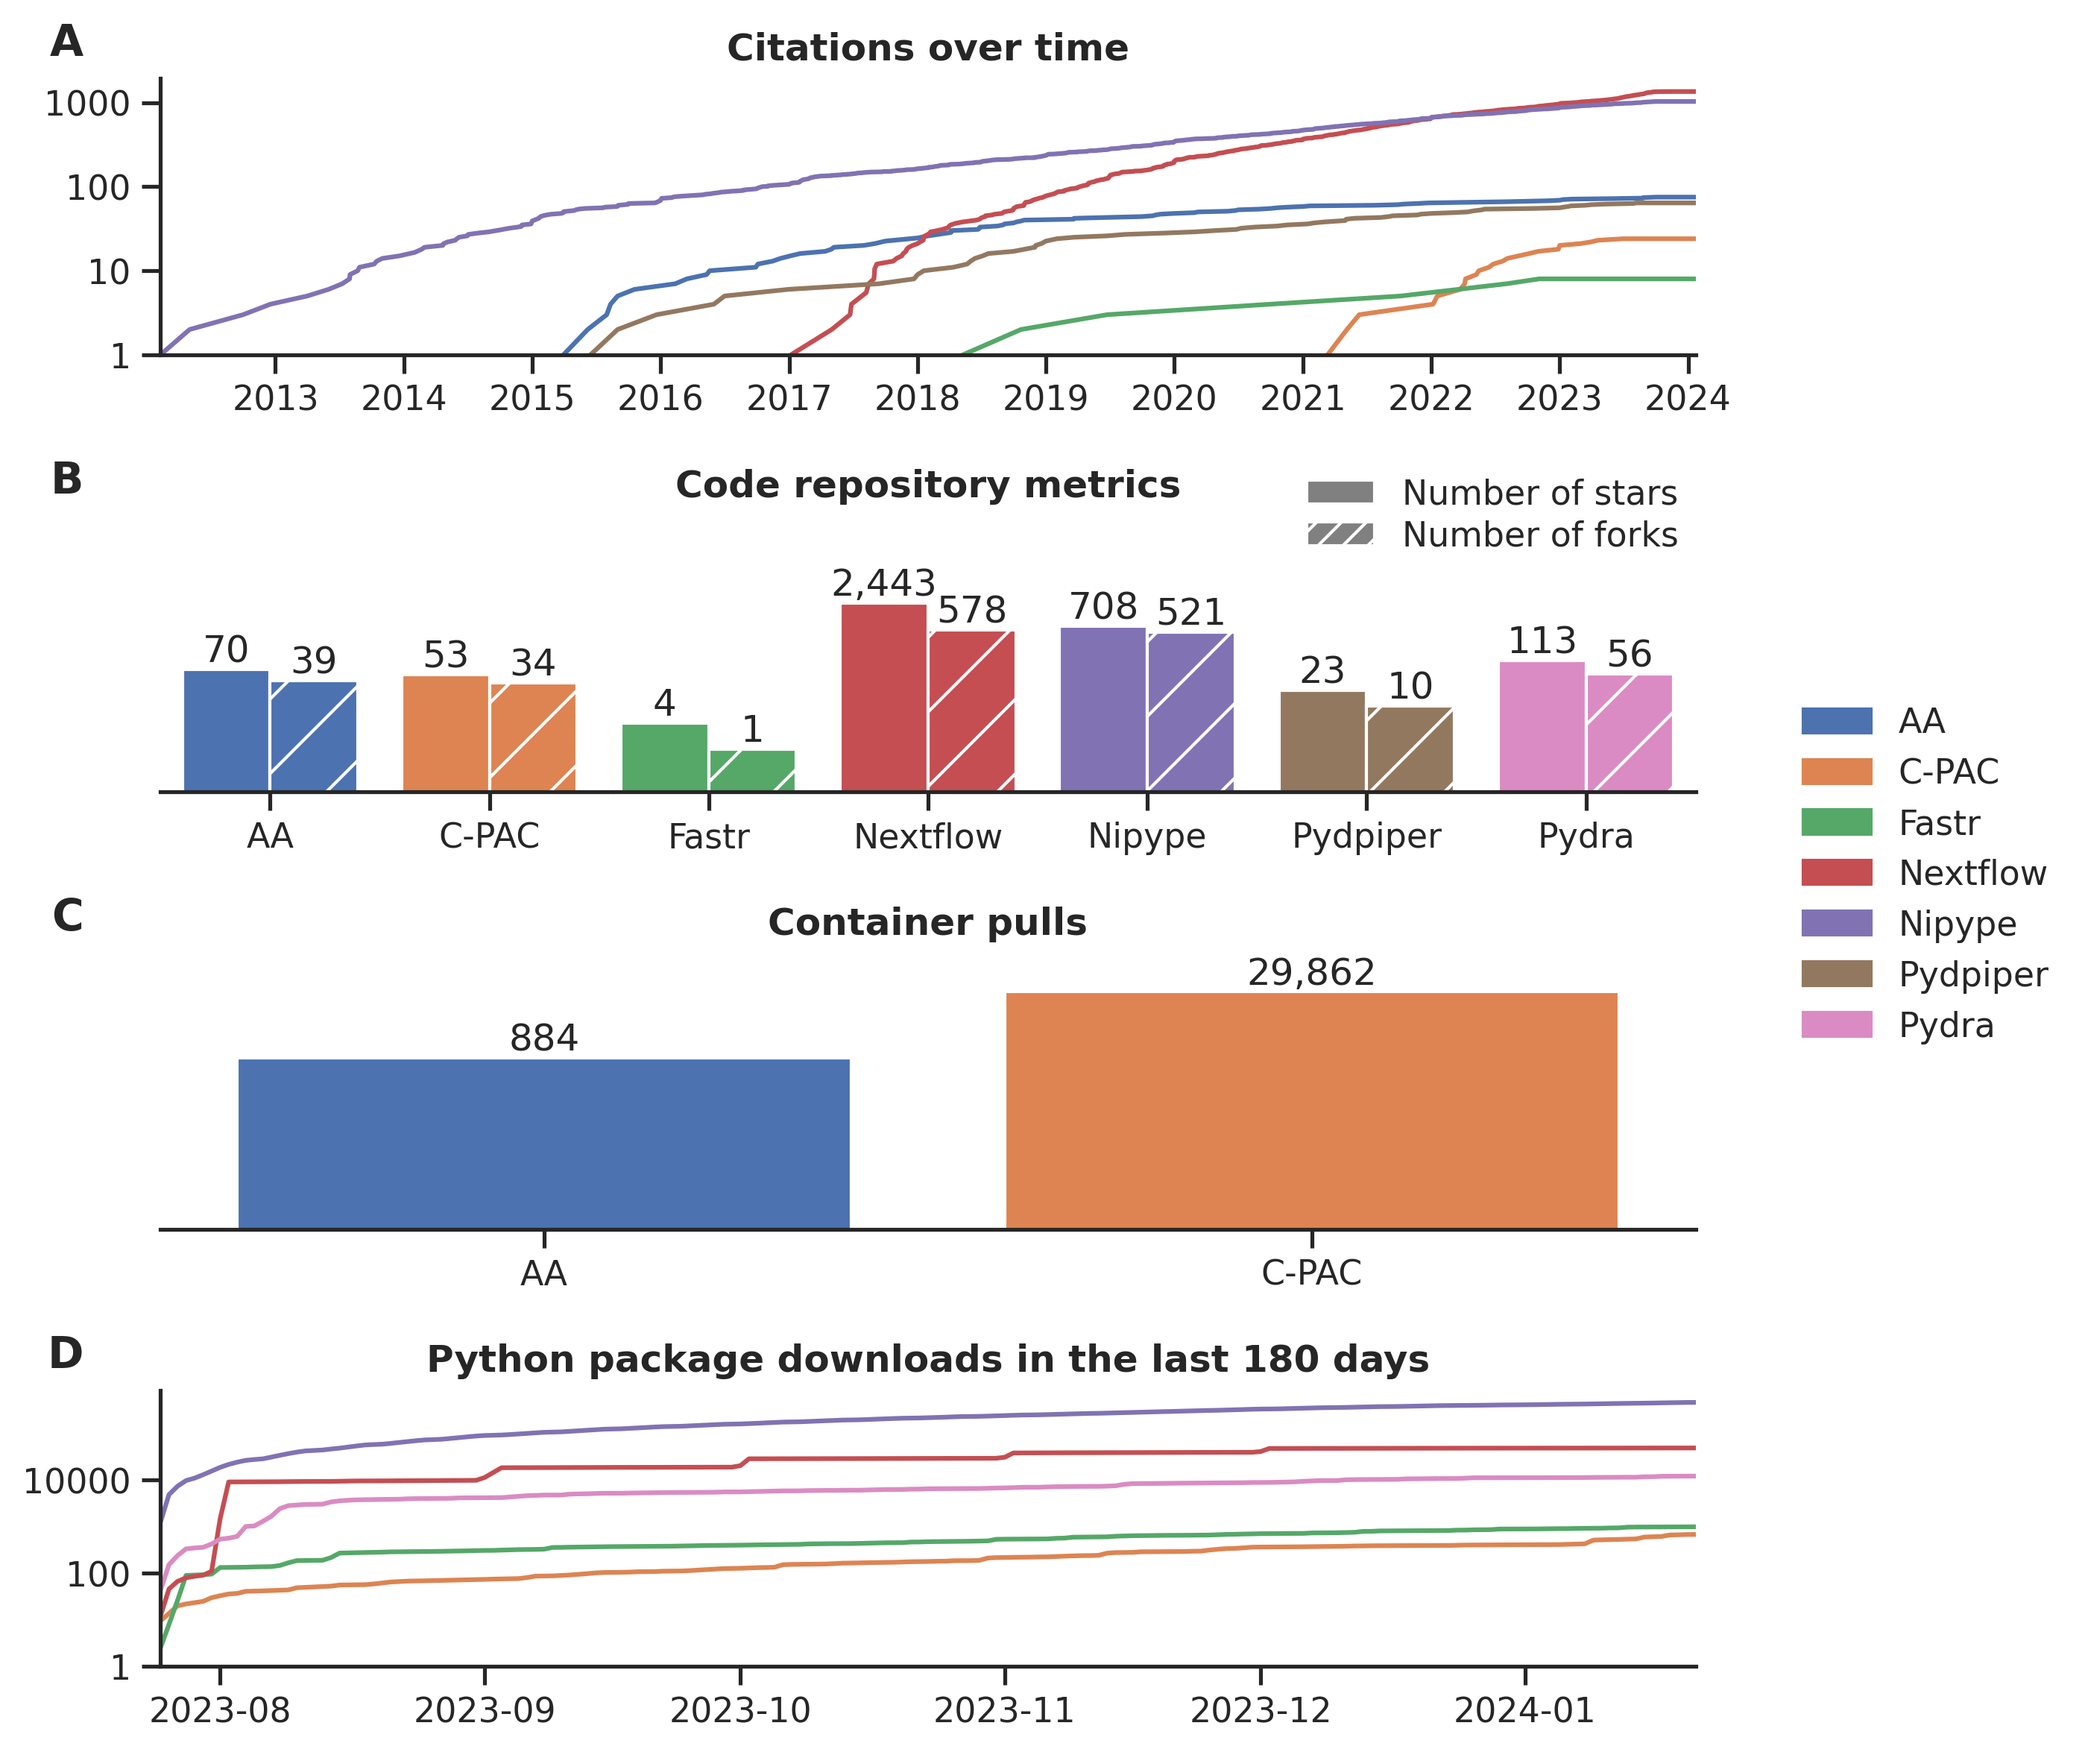
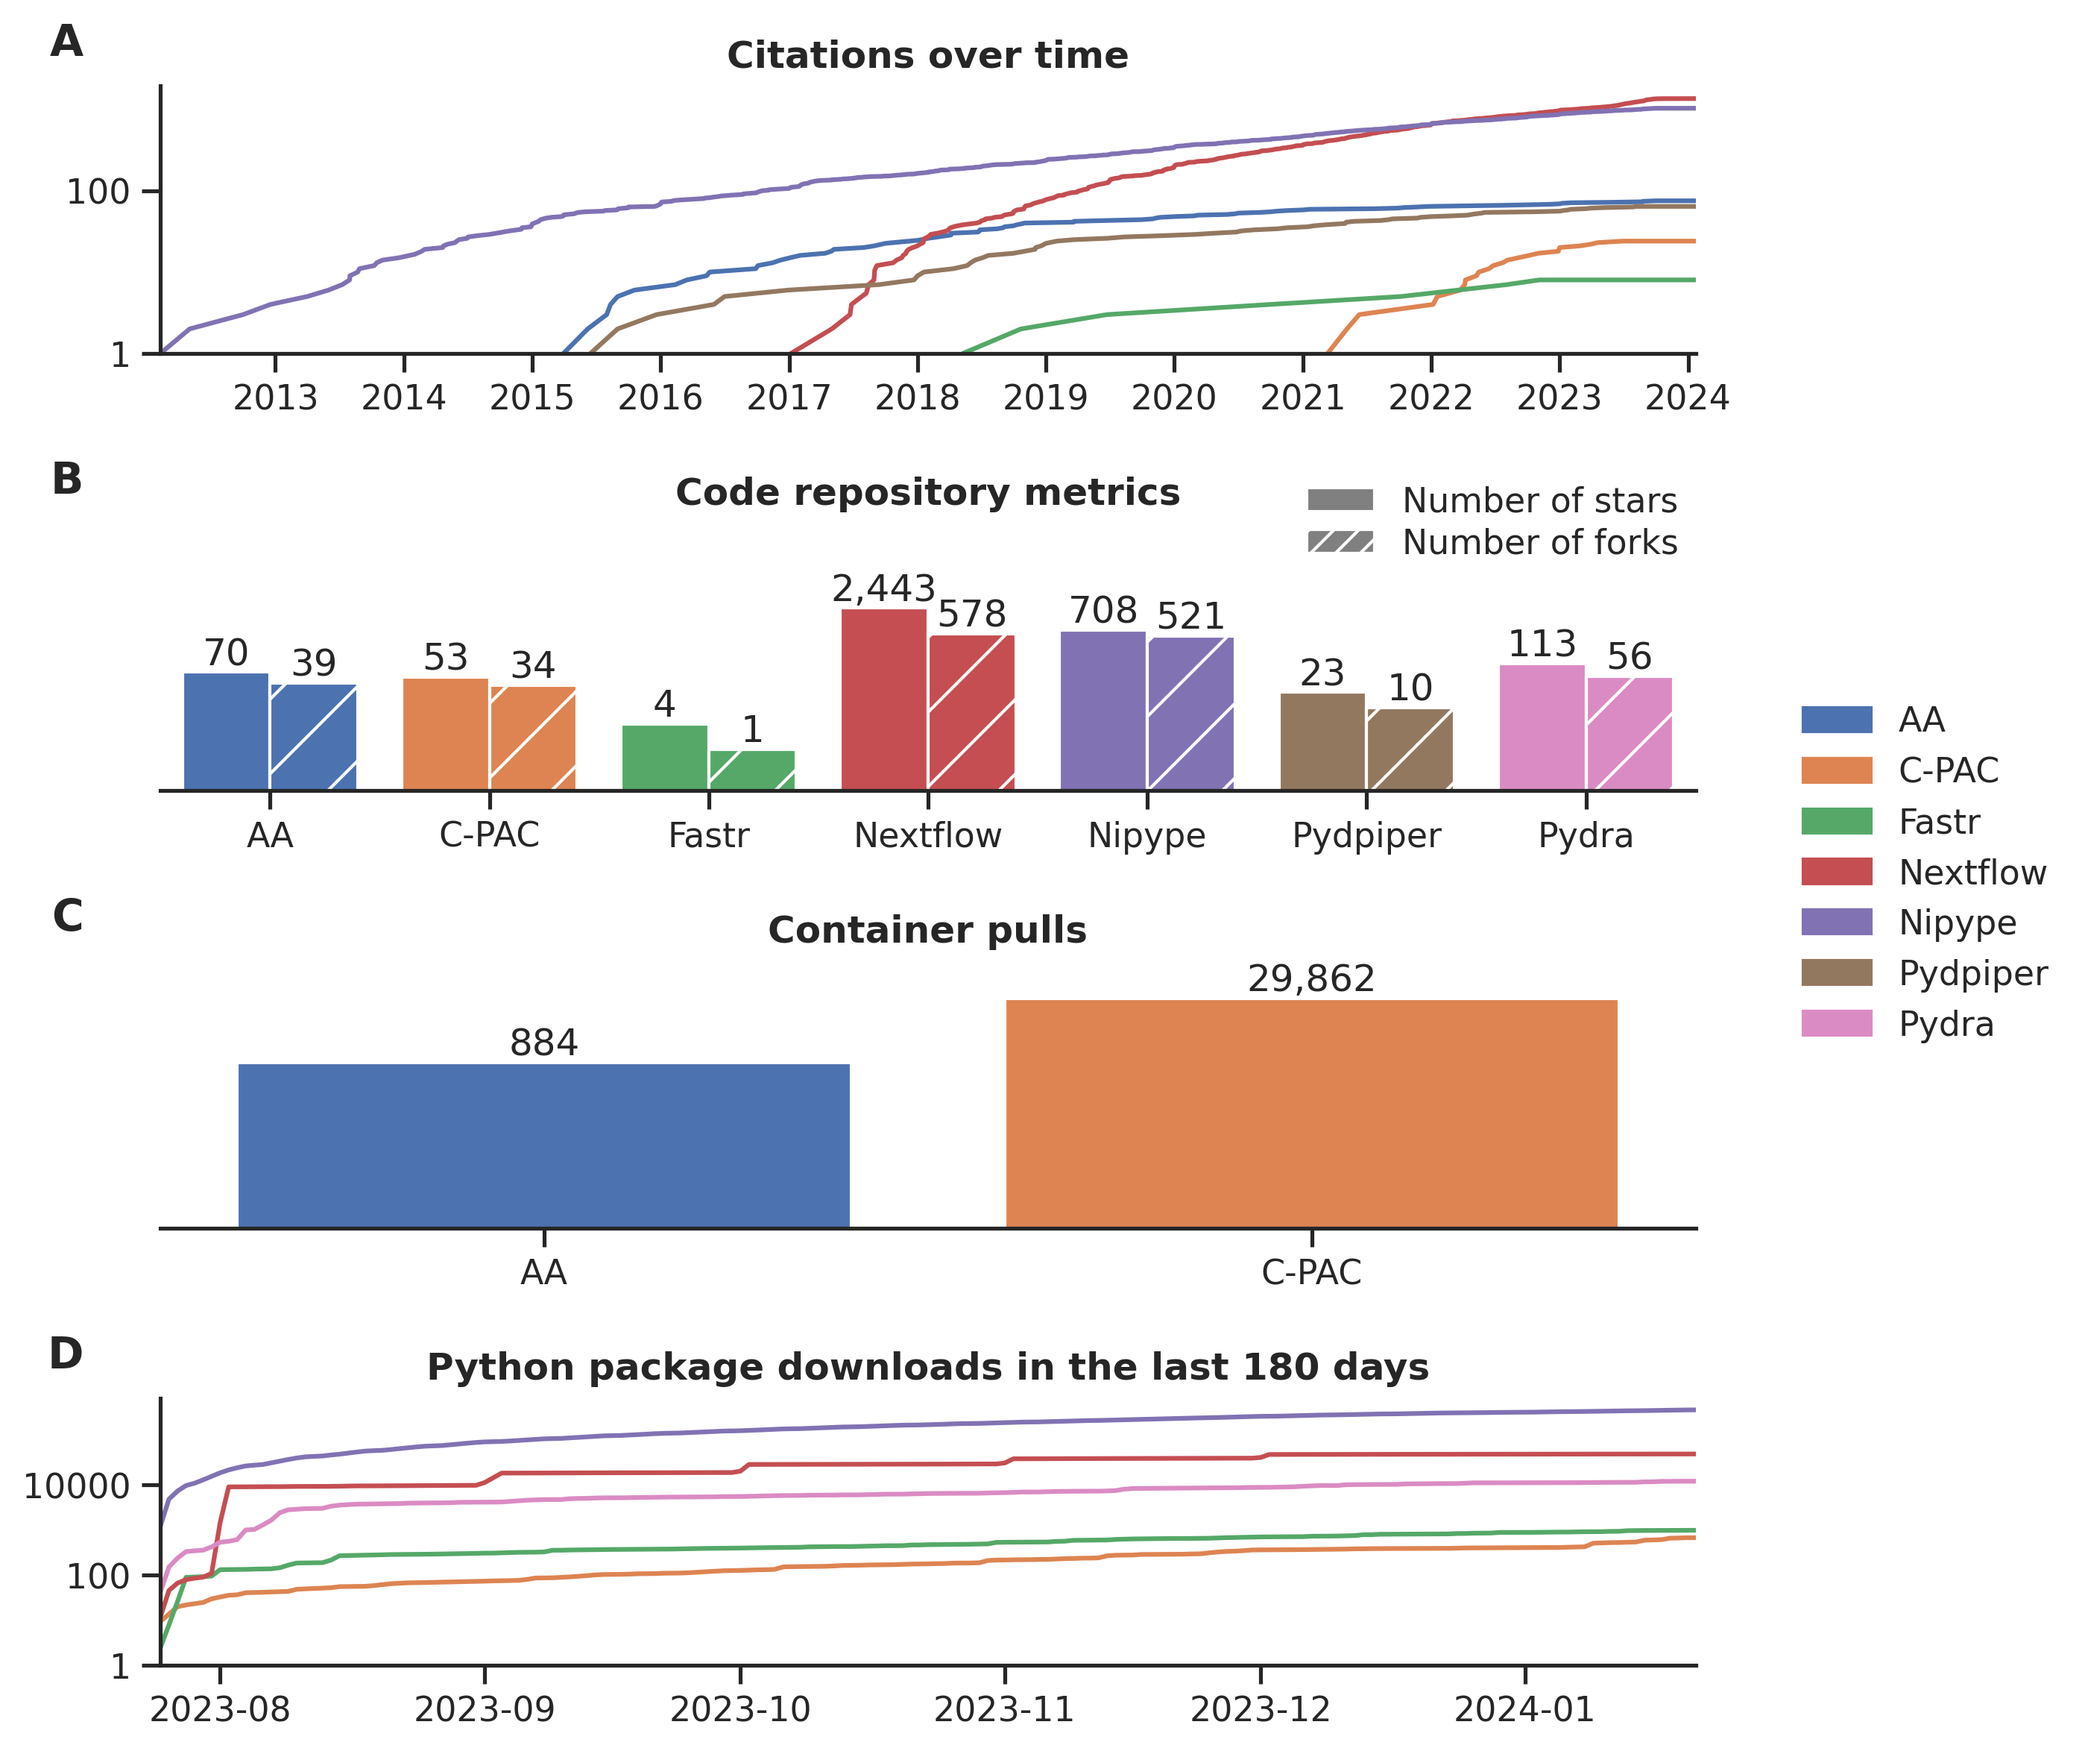
shift panel labels up

diff --git a/code/generate_figures.py b/code/generate_figures.py
@@ -460,7 +460,7 @@ def generate_figures(
             ax: plt.Axes
             ax.text(
                 x=-0.05,
-                y=1.05,
+                y=1.08,
                 s=chr(ord('A') + i_ax),
                 transform=ax.transAxes,
                 fontsize=14,
